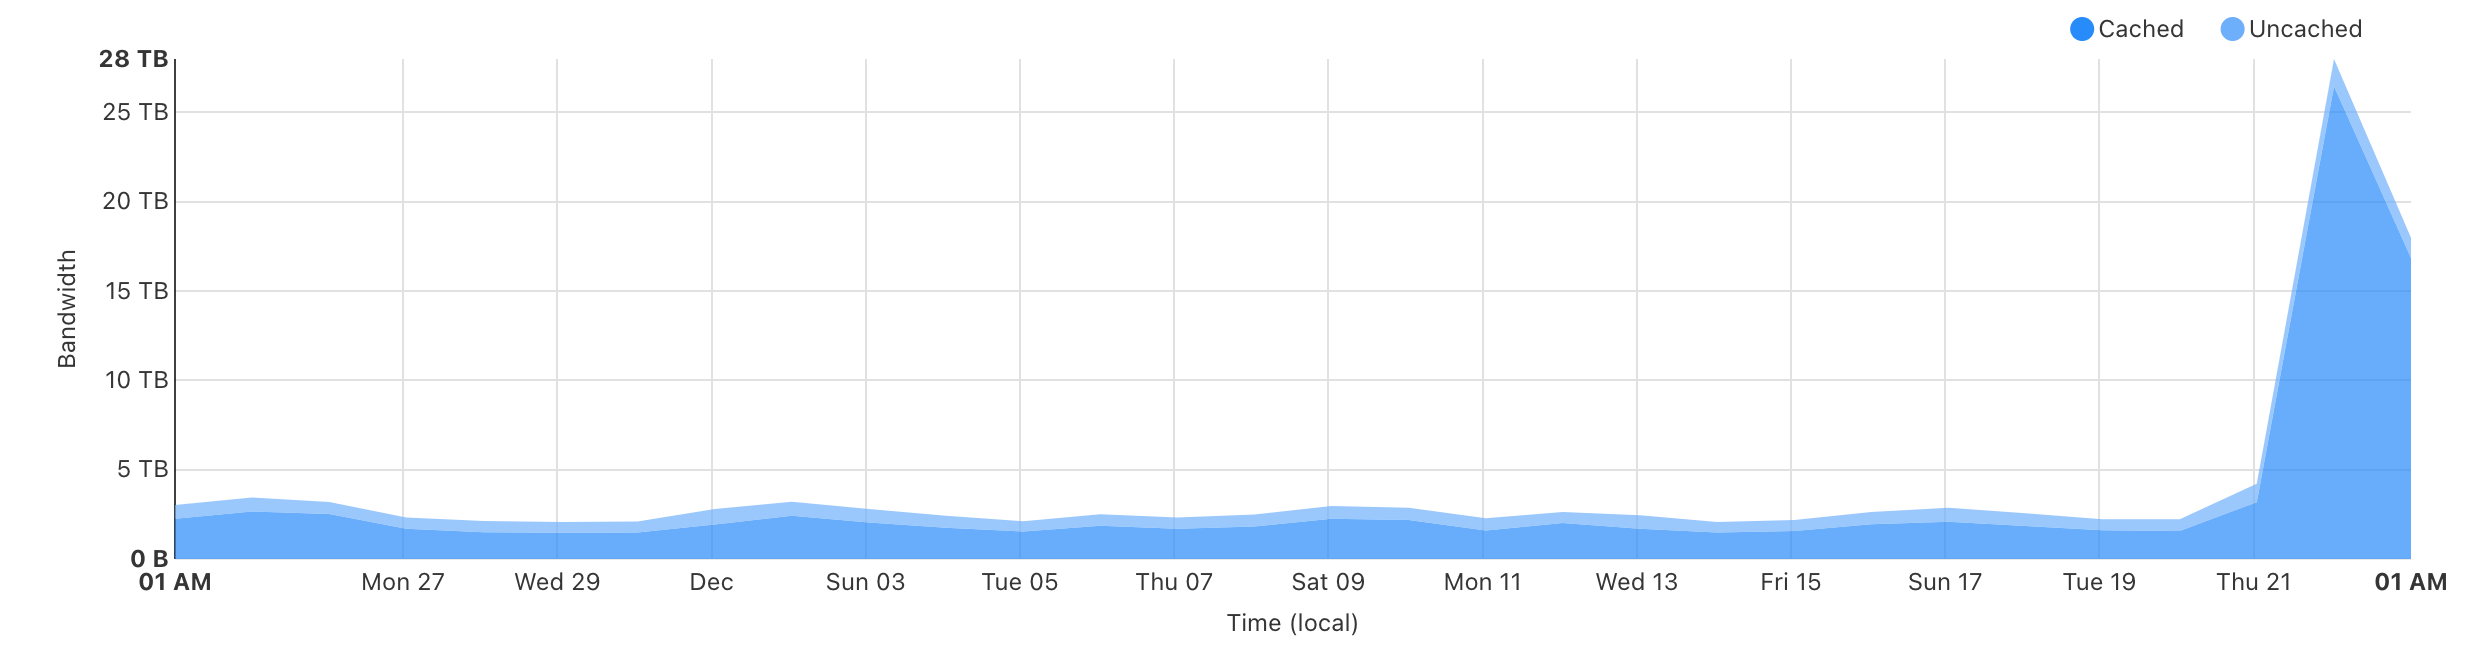
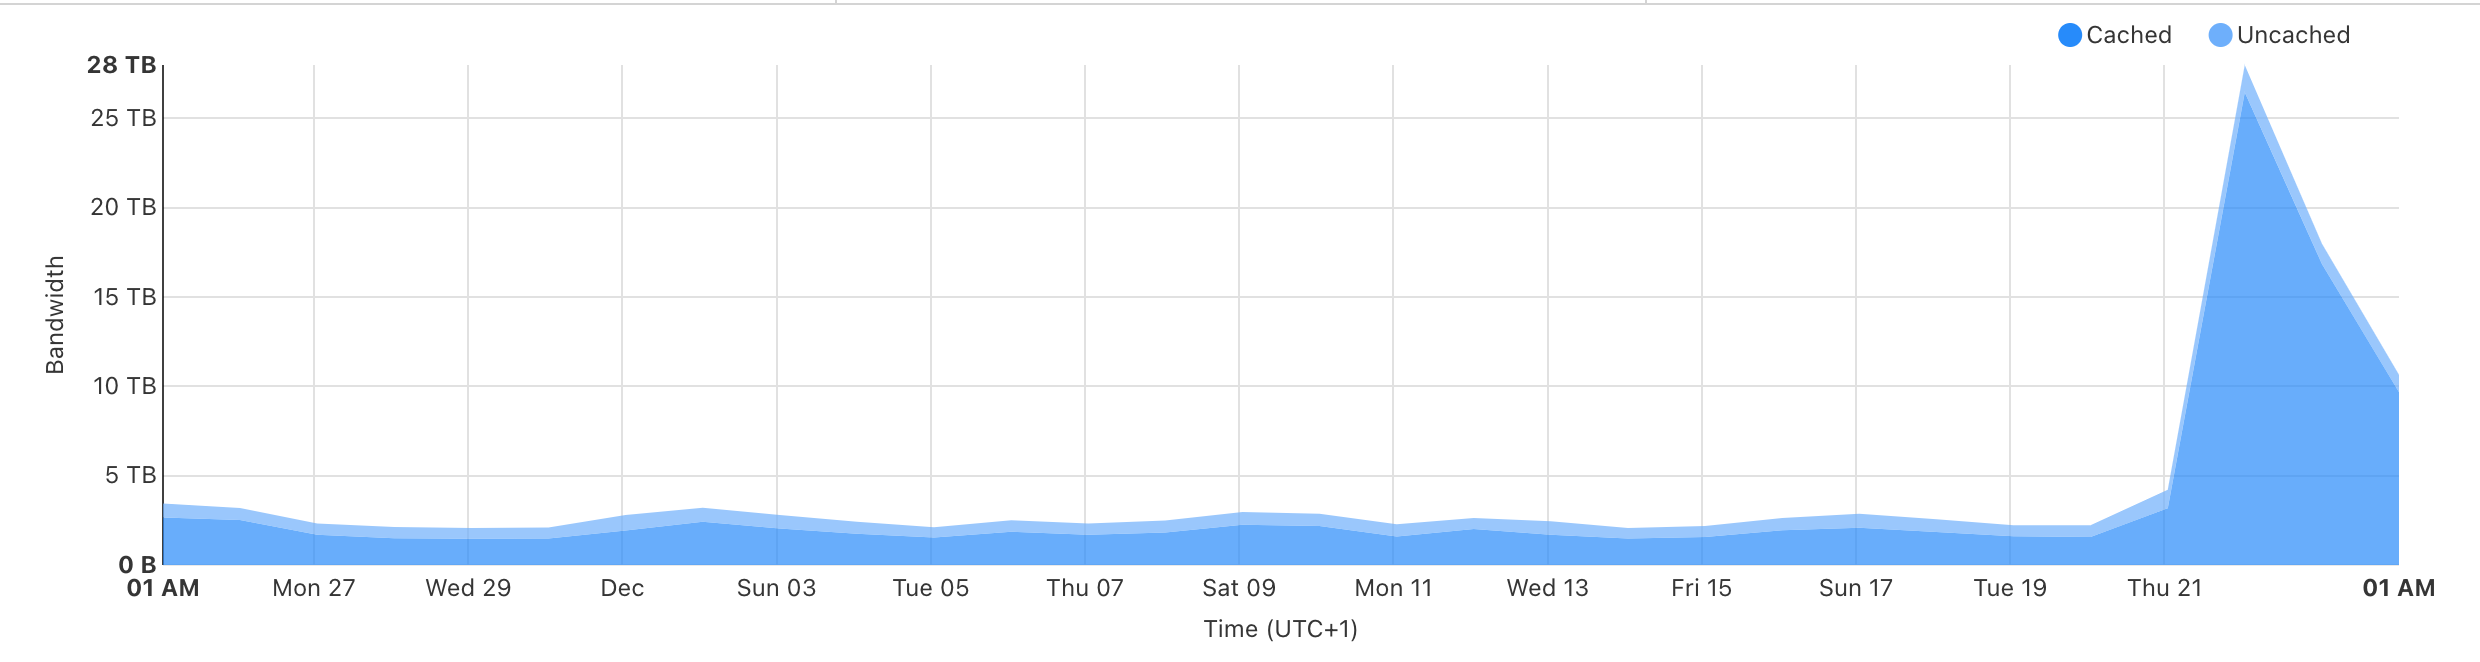
Updating title and graphs

diff --git a/src/posts/all-the-downloads.md b/src/posts/all-the-downloads.md
@@ -1,5 +1,5 @@
 ---
-title: 'Infrastructure and impact of an improved cockpit'
+title: 'All the Downloads! A Story of a Large Release'
 date: '2023-12-25'
 authors:
   - 'straks'
@@ -44,7 +44,7 @@ Below you can see how that impacts the use of our CDN in multiple graphs. The ti
 
 [![Weekly CDN Bandwidth usage](/img/notam-images/infrastructure/worker-bandwidth-weekly.png)](/img/notam-images/infrastructure/worker-bandwidth-weekly.png)
 
-The above graph represents the bandwidth usage per hour for the time period of December 17th, 2023 at 12:00 UTC till December 24th, 2023 at 12:00 UTC.
+The above graph represents the bandwidth usage per hour for the time period of December 18th, 2023 at 09:00 UTC till December 25th, 2023 at 09:00 UTC.
 
 You can see that earlier in the week the bandwidth on our CDN was rather low. It goes up during the day in Europe and US and it goes down a little when less people are trying to download data from the CDN.
 
@@ -58,7 +58,7 @@ And finally we hit the weekend, which is always a more busier time for our CDN, 
 
 [![Monthly CDN Requests](/img/notam-images/infrastructure/total-requests-monthly.png)](/img/notam-images/infrastructure/total-requests-monthly.png)
 
-The next graph shows the number of requests our CDN receives per hour for the time period of November 24th, 2023 at 01:00 UTC till December 24th, 2023 at 01:00 UTC.
+The next graph shows the number of requests our CDN receives per hour for the time period of November 25th, 2023 at 09:00 UTC till December 25th, 2023 at 09:00 UTC.
 
 As you can see, the use of our CDN fluctuates heavily based on the time of day, and the day of the week. Every day we reach a peak during the time when most of Europe and the US are awake (around 17:00 UTC) and more users are getting data from our CDN. Additionally, during the weekends there's more requests then during the week. Neither of these are unexpected, as people tend to fly more in the evening or in the weekend.
 
@@ -70,7 +70,7 @@ The other two peaks that follow show that once news started spreading, a lot of 
 
 [![Monthly CDN Bandwidth caching](/img/notam-images/infrastructure/bandwidth-caching-monthly.png)](/img/notam-images/infrastructure/bandwidth-caching-monthly.png)
 
-We'll end with a graph which represents the bandwidth usage per day for the time period of November 24th, 2023 at 00:00 UTC till December 24th, 2023 at 00:00 UTC.
+We'll end with a graph which represents the bandwidth usage per day for the time period of November 25th, 2023 at 00:00 UTC till December 25th, 2023 at 00:00 UTC.
 
 This is another view on the bandwidth usage, what's important for this graph is to notice the cached bandwidth versus uncached.
 
